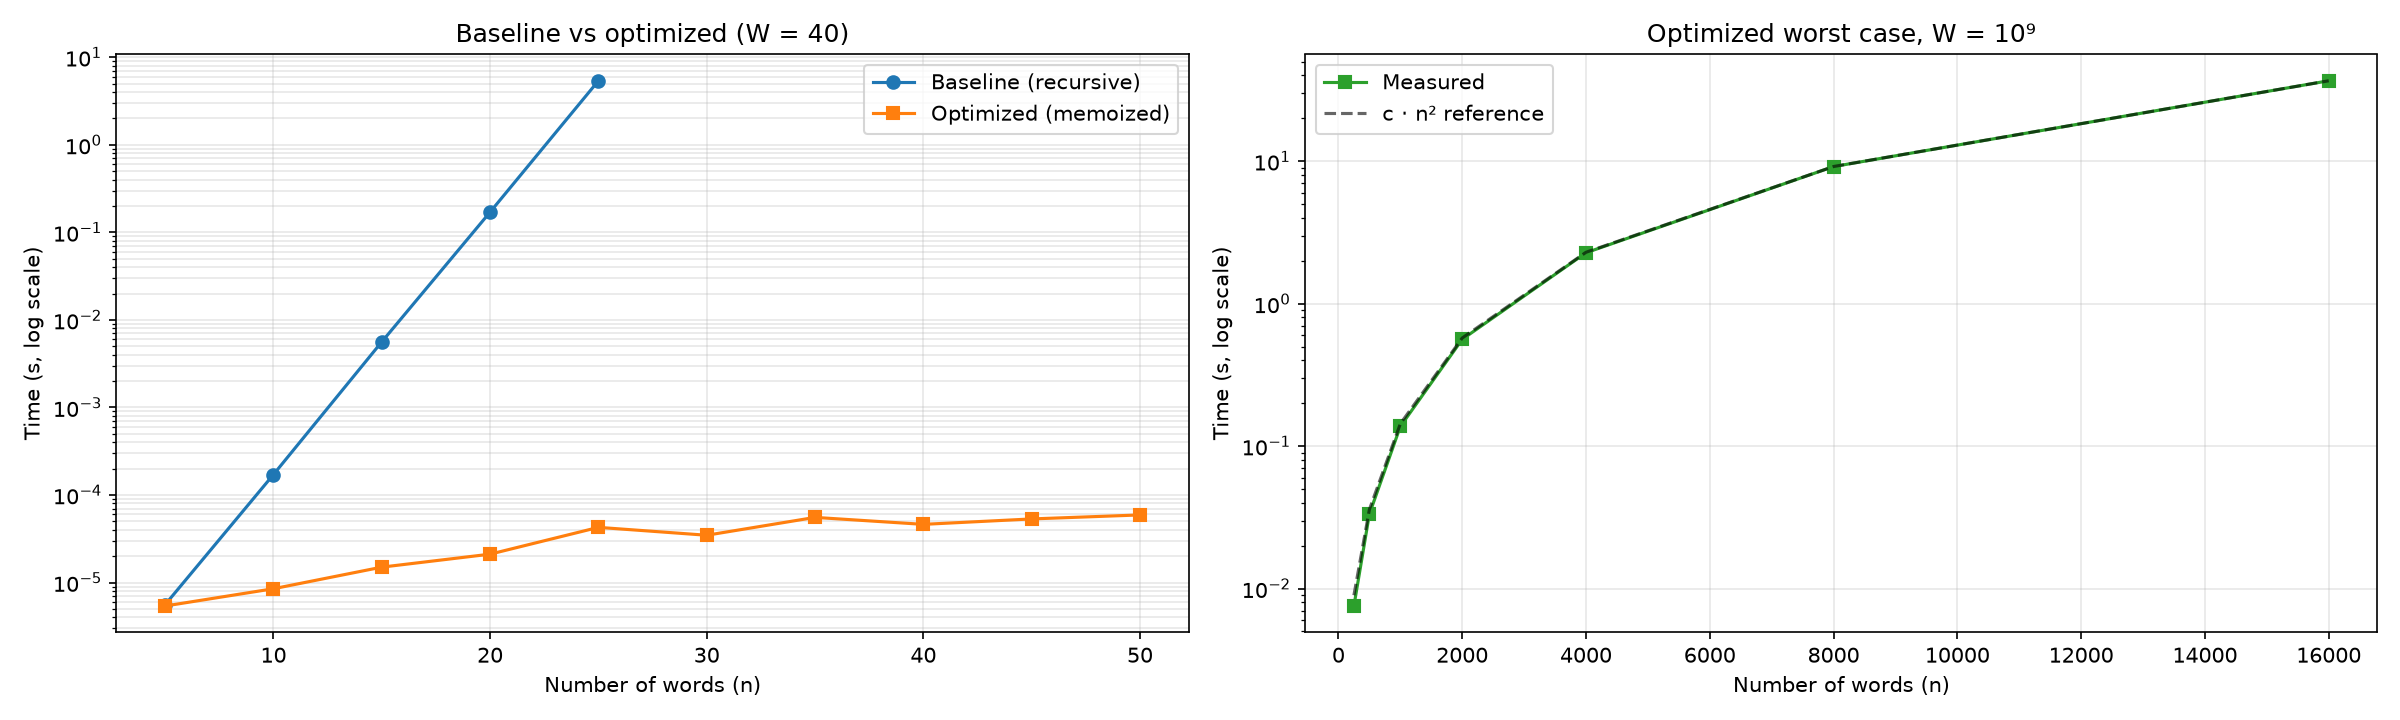
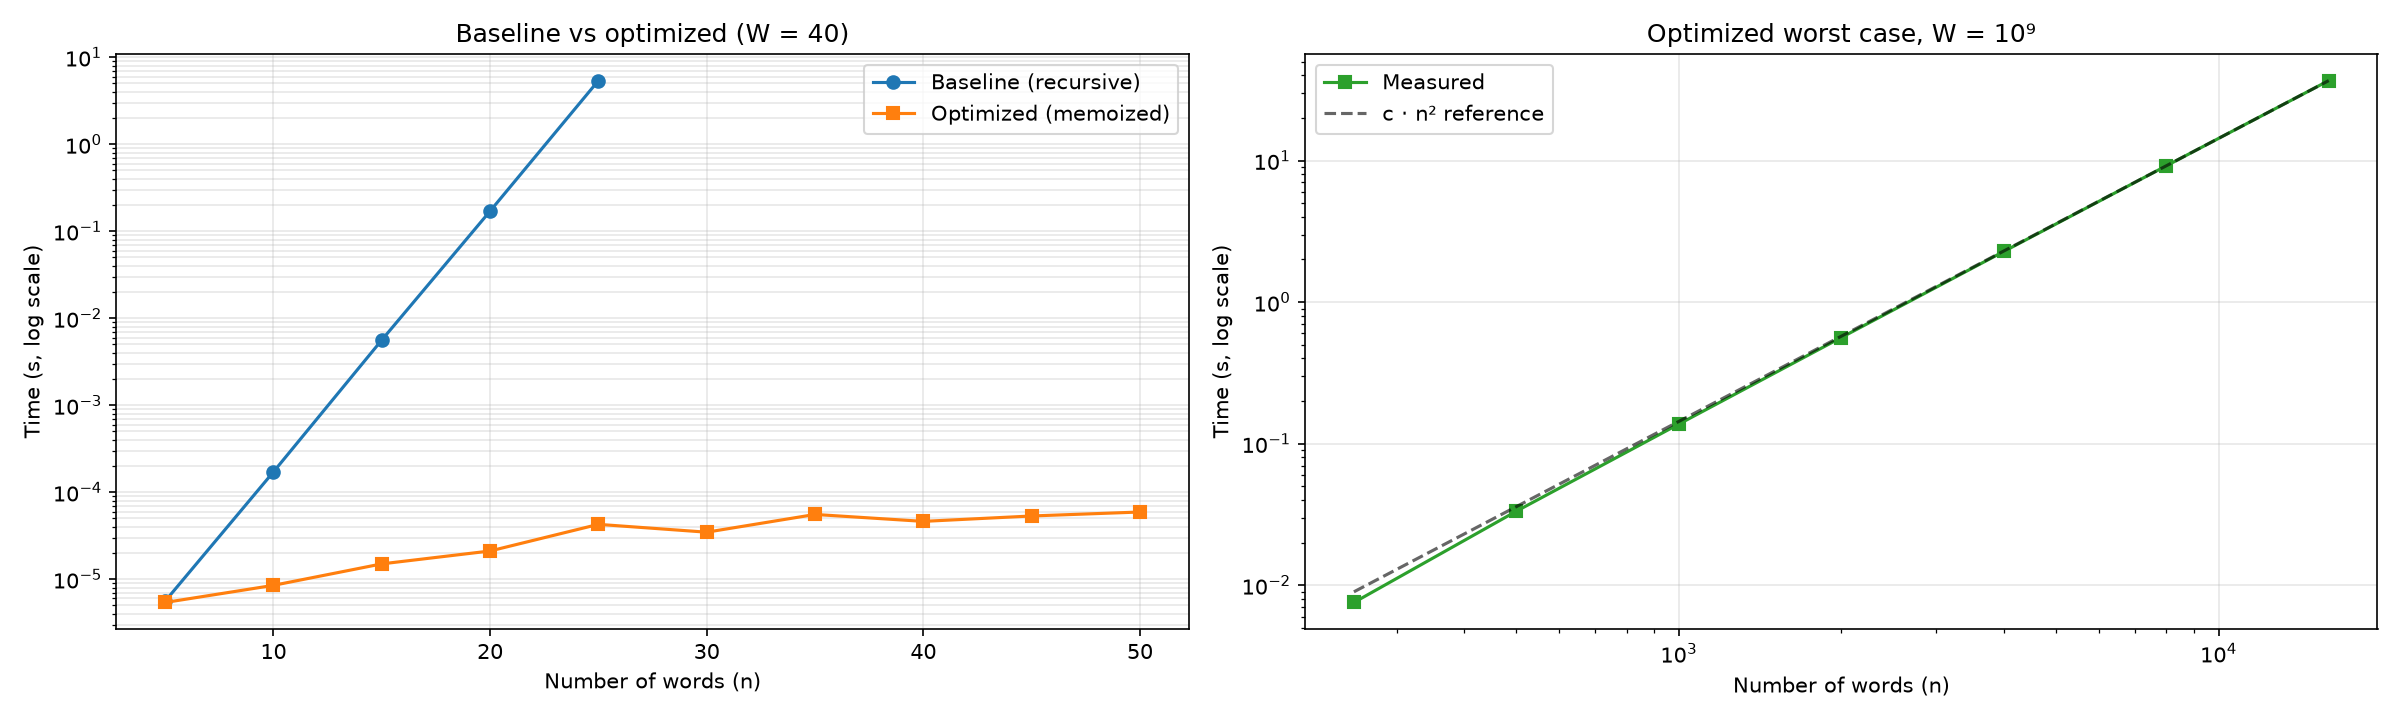
Adjusted graphs and evaluation

diff --git a/src/plot_results.py b/src/plot_results.py
@@ -25,6 +25,7 @@ ax.grid(True, which="both", alpha=0.3)
 # Experiment 2: worst case, W huge -> quadratic; dashed line is c * n^2 fit at the largest n
 e3 = df[df["experiment"] == "exp3_Whuge"]
 ax = axes[1]
+ax.set_xscale("log")
 ax.set_yscale("log")
 ax.plot(e3["n"], e3["optimized_s"], "s-", color="tab:green", label="Measured")
 c = e3["optimized_s"].iloc[-1] / e3["n"].iloc[-1] ** 2

diff --git a/evaluation.md b/evaluation.md
@@ -1,63 +1,30 @@
-# Implementation and Evaluation
+# Empirical Evaluation
 
-## Files
-| File | Purpose |
-|---|---|
-| `linebreak.py` | `baseline` (plain recursion), `optimized` (memoized recursion) |
-| `test_linebreak.py` | 21 unit tests (`python -m unittest -v test_linebreak`) |
-| `benchmark.py` | Timing experiments; writes `benchmark_results.csv` to `assets/` (`python benchmark.py`) |
-| `plot_results.py` | Reads the CSV and writes `benchmark_plot.png` to `assets/` |
+## Overview
 
+We implemented our two algorithms (`src/linebreak.py`) that solve the Line Breaking problem:
 
-## Implementation
-The code follows the planning pseudocode directly. A line holding words `i..j` has width `sum(len) + (j - i)`. Its slack is `W - width`, its penalty is `3 * slack`, and the last line costs 0. `baseline` tries every line that fits and recurses on the rest. `optimized` is identical plus a `memo` dictionary keyed by the starting word index, so each suffix is solved once.
+1. **Baseline Algorithm:** A plain recursive approach that, for each starting word, tries every line that fits within the width and recurses on the remaining words.
+2. **Optimized Algorithm:** The same recursion as the Baseline Algorithm, plus a memo table keyed by the starting word index, so each suffix of the word list is solved only once.
 
-Two additions beyond the pseudocode:
-- **Infeasible input:** if a word is longer than `W`, no line can hold it, and both versions return `inf`.
-- **Recursion limit:** `optimized` recurses up to `n` levels deep, so it temporarily raises Python's recursion limit to at least `n + 1000` and restores it afterwards, even when the input is infeasible.
+Both algorithms return the minimum total penalty, where each non-last line costs 3 times its slack (the width minus the line's length) and the last line is free, or `inf` when some word is longer than the width. The plot legends label the algorithms as Baseline (recursive) and Optimized (memoized).
 
-## Testing
-All 21 tests pass. They cover:
-- **Hand-computed cases (9):** empty input, single word, everything on one line, exact-fit lines, forced breaks, uneven forced breaks, a word exactly `W` long, the penalty being 3 × slack, and a case with two equally good layouts (cost 15) that is also checked against the brute-force oracle.
-- **Edge cases (7):** a word longer than `W` (alone, at the end, and mid-sequence), empty input with `W = 0`, a free last line, non-negative penalties, and inputs not being mutated.
-- **Optimized-specific (3):** a 3000-word input that exercises deep recursion, with a hand-computed answer of 1122 (374 penalized lines × 3), plus checks that the recursion limit is restored after both a normal and an infeasible call.
-- **Randomized agreement (2):** 400 random inputs (up to 11 words, widths 4 to 25) compared against an independent brute-force oracle that enumerates every subset of break points, and 100 random medium inputs (12 to 16 words) where `baseline` and `optimized` are compared directly. All match.
+Unit testing (`src/test_linebreak.py`) confirms that both algorithms return the correct minimum penalty across 21 typical and edge cases (empty lists, words longer than the width, etc.). Both algorithms also match an independent brute-force oracle on hundreds of random inputs.
 
-## Benchmarking
-Each time is the best of 10 runs, measured with `time.perf_counter`. Words are random lengths 2 to 8 with a fixed seed. The machine and Python version were not recorded, so absolute times will differ on yours; the trends are what matter.
+## Benchmarking Results
 
-### Experiment 1: baseline vs optimized (W = 40, about 8 words per line)
-| n | Baseline (s) | Optimized (s) | Speedup |
-|---:|---:|---:|---:|
-| 5 | 0.0000056 | 0.0000054 | 1.0x |
-| 10 | 0.000171 | 0.0000085 | 20x |
-| 15 | 0.005616 | 0.0000150 | 374x |
-| 20 | 0.170448 | 0.0000211 | 8,078x |
-| 25 | 5.386800 | 0.0000427 | ~126,000x |
-| 30 | skipped (5 s cap exceeded at n = 25) | 0.0000347 | n/a |
-| 35 | skipped | 0.0000555 | n/a |
-| 40 | skipped | 0.0000462 | n/a |
-| 45 | skipped | 0.0000533 | n/a |
-| 50 | skipped | 0.0000592 | n/a |
+We compare the performance of our two algorithms on randomly generated inputs (`src/benchmark.py`) in two experiments: the first runs both algorithms on small inputs (n = 5 to 50 words) with a line width of 40, and the second runs only the Optimized Algorithm on much larger inputs (n = 250 to 16,000 words) with a width of 10^9. Word lengths are sampled from 2 to 8 characters with a fixed random seed. Each input size was run ten times, and the fastest time was used for the plots and subsequent analysis. We present the results in the plots below.
 
-Each +5 words multiplies baseline time by about 31x (0.000171 to 0.0056 to 0.170 to 5.39, ratios of 33x, 30x, and 32x), i.e. about 2x per added word. That is consistent with the predicted exponential growth. The memoized version stays under 0.06 ms all the way to n = 50.
+In the first experiment (left plot), a width of 40 fits roughly 7 words per line, and the y axis is logarithmic because the two algorithms differ by orders of magnitude. The Baseline Algorithm takes about 0.0002 seconds at n = 10, 0.006 seconds at n = 15, 0.17 seconds at n = 20, and 5.39 seconds at n = 25. Since that exceeded our 5 second cap, we did not run it beyond n = 25. The Optimized Algorithm, in contrast, stays under 0.06 milliseconds all the way to n = 50. Each additional 5 words multiplies the Baseline Algorithm's time by about 31 (ratios of 33, 30, and 32), which is roughly a doubling for every added word and appears as a straight line on the logarithmic axis.
 
-### Experiment 2: worst case, W = 10^9 (every word fits on one line)
-| n | Memoized (s) | Time / n^2 (ns) |
-|---:|---:|---:|
-| 250 | 0.007540 | 120.6 |
-| 500 | 0.033306 | 133.2 |
-| 1,000 | 0.137328 | 137.3 |
-| 2,000 | 0.561917 | 140.5 |
-| 4,000 | 2.278476 | 142.4 |
-| 8,000 | 9.175963 | 143.4 |
-| 16,000 | 36.732621 | 143.5 |
+In the second experiment (right plot), we set the width to 10^9, far larger than the total length of any input we generate, so that every word fits on a single line. This is the worst case for the Optimized Algorithm. We predicted the $\mathcal{O}(n^2)$ bound by counting the work: there are $n$ subproblems (one for each starting word), and when every word fits, the loop in each subproblem never stops early at the width limit, so a subproblem starting at word $i$ examines all of the remaining $n - i$ words. Summing over all starting words gives about $n^2 / 2$ steps. With a normal width, the loop would stop after a handful of words, so the 10^9 width is what allows us to reach this bound instead of measuring a faster case. Both axes of this plot are logarithmic, so a running time of the form $n^c$ appears as a straight line of slope $c$. The measured line approaches a slope of 2 at larger inputs: the slope between consecutive input sizes falls from 2.14 (n = 250 to 500) to 2.00 (n = 8,000 to 16,000), and is 2.04 over the whole range. It also runs parallel to the dashed c · n² reference line, where c is fitted to the measurement at the largest input. The Optimized Algorithm takes 0.0075 seconds at n = 250, 0.14 seconds at n = 1,000, 2.28 seconds at n = 4,000, and 36.7 seconds at n = 16,000.
 
-Doubling `n` roughly quadruples the time (the ratio falls from 4.4x at the smallest sizes to 4.00x at the largest), and time / n^2 levels off at about 143 ns. This confirms the Theta(n^2) worst case. The slightly lower values at small `n` are fixed overhead that is amortized away as `n` grows.
+![Benchmark Plot](assets/benchmark_plot.png)
 
-## Conclusions
-- **Correctness:** `baseline` and `optimized` agree with each other and with a brute-force oracle on all randomized tests.
-- **Baseline is exponential:** it becomes unusable at about 25 words (5.4 s) and would take far longer for a real paragraph.
-- **Memoization fixes this:** it removes repeated subproblems and gives a speedup of roughly 126,000x at n = 25.
-- **Theta(n^2) is the worst case, not the typical one:** the planning bound is only reached when `W` is large enough for all words to share a line. For realistic widths the cost is O(n * W) and effectively linear in `n`.
-- **Limitations:** timings are from one machine in pure Python, and the baseline was capped at 5 s per run. A single `W = 40` workload with random word lengths 2 to 8 is one workload, not all.
+The empirical data aligns with our theoretical complexity analysis (`planning.md`):
+
+- **Baseline Exponential Scaling**: The Baseline Algorithm has a worst-case upper bound of $\mathcal{O}(2^n)$ because it recomputes the same suffixes many times: with short words and a wide line, every gap between words can independently be a line break or not. The measured growth of about 2 times per added word matches this, and the algorithm becomes unusable at around 25 words, where it already takes 5.39 seconds. Its stack space is only $\mathcal{O}(n)$, since the recursion depth is at most one level per word.
+- **Optimized Efficiency**: The Optimized Algorithm solves each of the $n$ suffixes of the word list only once, which removes the repeated work of the Baseline Algorithm and leaves $\mathcal{O}(n^2)$ time in the worst case and $\mathcal{O}(n)$ space. At n = 25, it is about **126,000 times faster** than the Baseline Algorithm (0.0000427 seconds versus 5.39 seconds), demonstrating the advantage of memoizing overlapping subproblems instead of recomputing them.
+- **Quadratic Worst Case**: The $\mathcal{O}(n^2)$ bound is reached when the width is large enough for all words to share one line, which is why the second experiment uses a width of 10^9. The log-log plot confirms it: the measured slope approaches 2 as the input grows, meaning the running time approaches $n^2$ at large word counts.
+
+All timings come from a single machine in pure Python, and the machine and Python version were not recorded, so absolute times will differ on other machines; the growth trends are what matter. The two experiments each use one workload (width 40 for the comparison, width 10^9 for the worst case) with random word lengths, so they do not cover every possible input.
